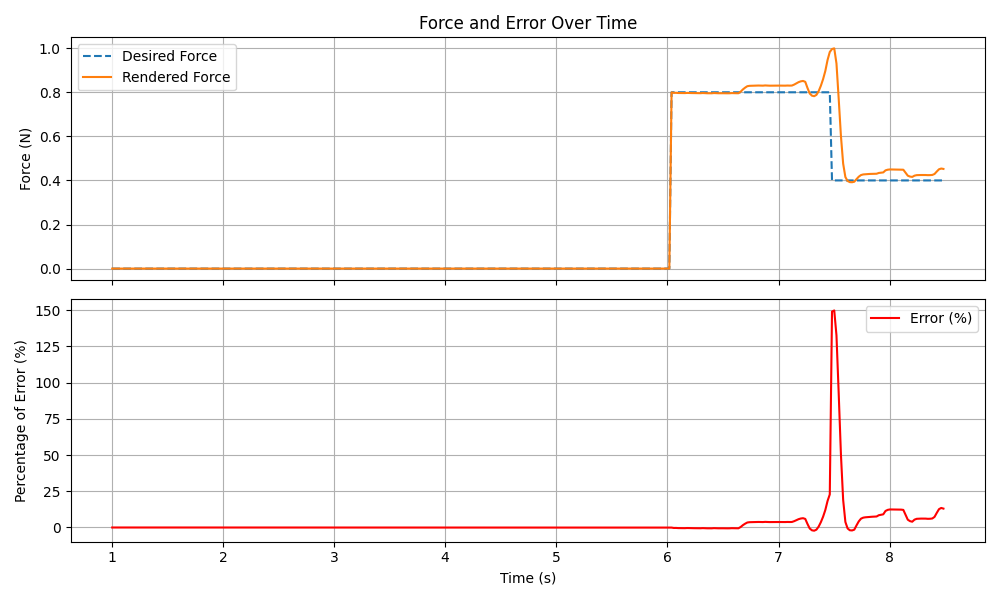
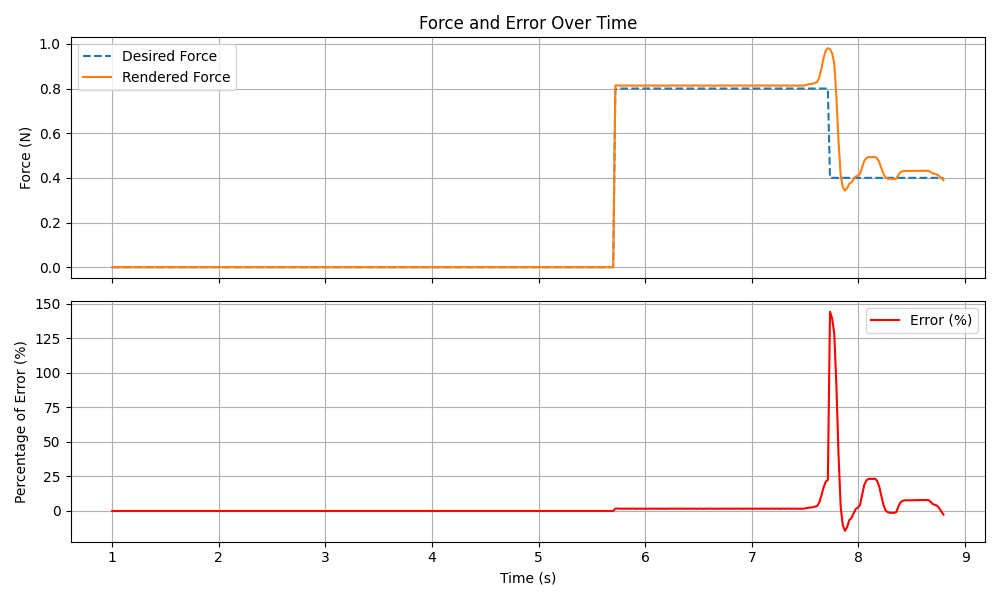
update

diff --git a/friction_render.py b/friction_render.py
@@ -158,7 +158,7 @@ try:
                 if sliding:
                     pid_enhance = pid_enhance + np.tanh(abs(positionChange))
                 if external_velocity > delta_v:
-                    pid_enhance = pid_enhance + np.tanh(abs(external_velocity/20))
+                    pid_enhance = pid_enhance + np.tanh(abs(external_velocity/50))
 
             pid_scale_factor += pid_enhance
 
